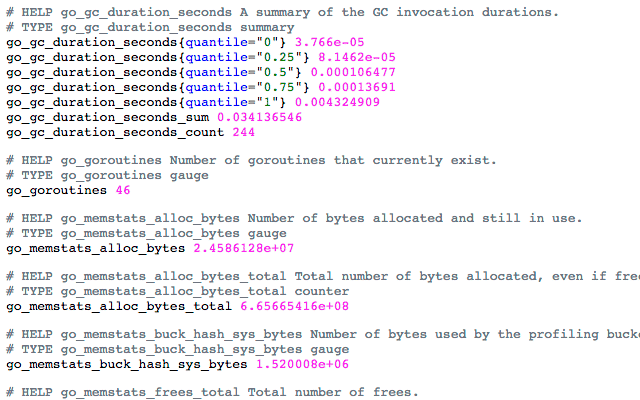
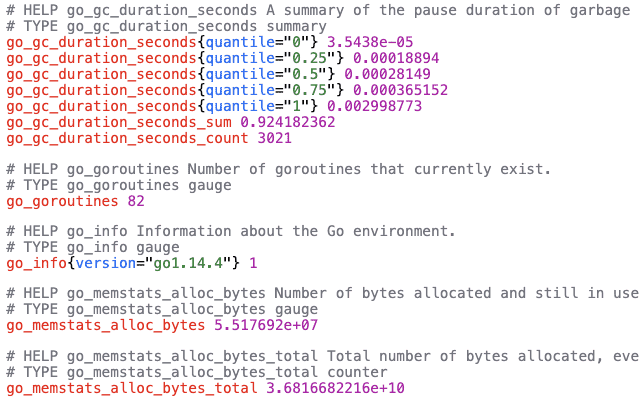
Release v2.1.0
Use Atom One Dark/Light theme depending on color scheme

Changed region(s): [[0.0, 0.0, 1.0, 1.0]]

diff --git a/README.md b/README.md
@@ -5,11 +5,13 @@ Browser extension which makes plain Prometheus metrics easier to read.
 This extension is a simple syntax highlighter for plain text Prometheus metrics. 
 By default it works on URL paths matching '/metrics', '/federate', '/probe', '/prometheus' and '/actuator/prometheus'. By clicking on the extension's icon, you can define your own paths (Regular Expressions are suppported), which will override the default list.
 
-###### before:
+###### Before:
 ![](_images/before.png)
 
-###### after:
+###### After:
 ![](_images/after.png)
+
+For highlighting in the terminal: [promcolor](https://github.com/fhemberger/promcolor).
 
 
 ## Installation
